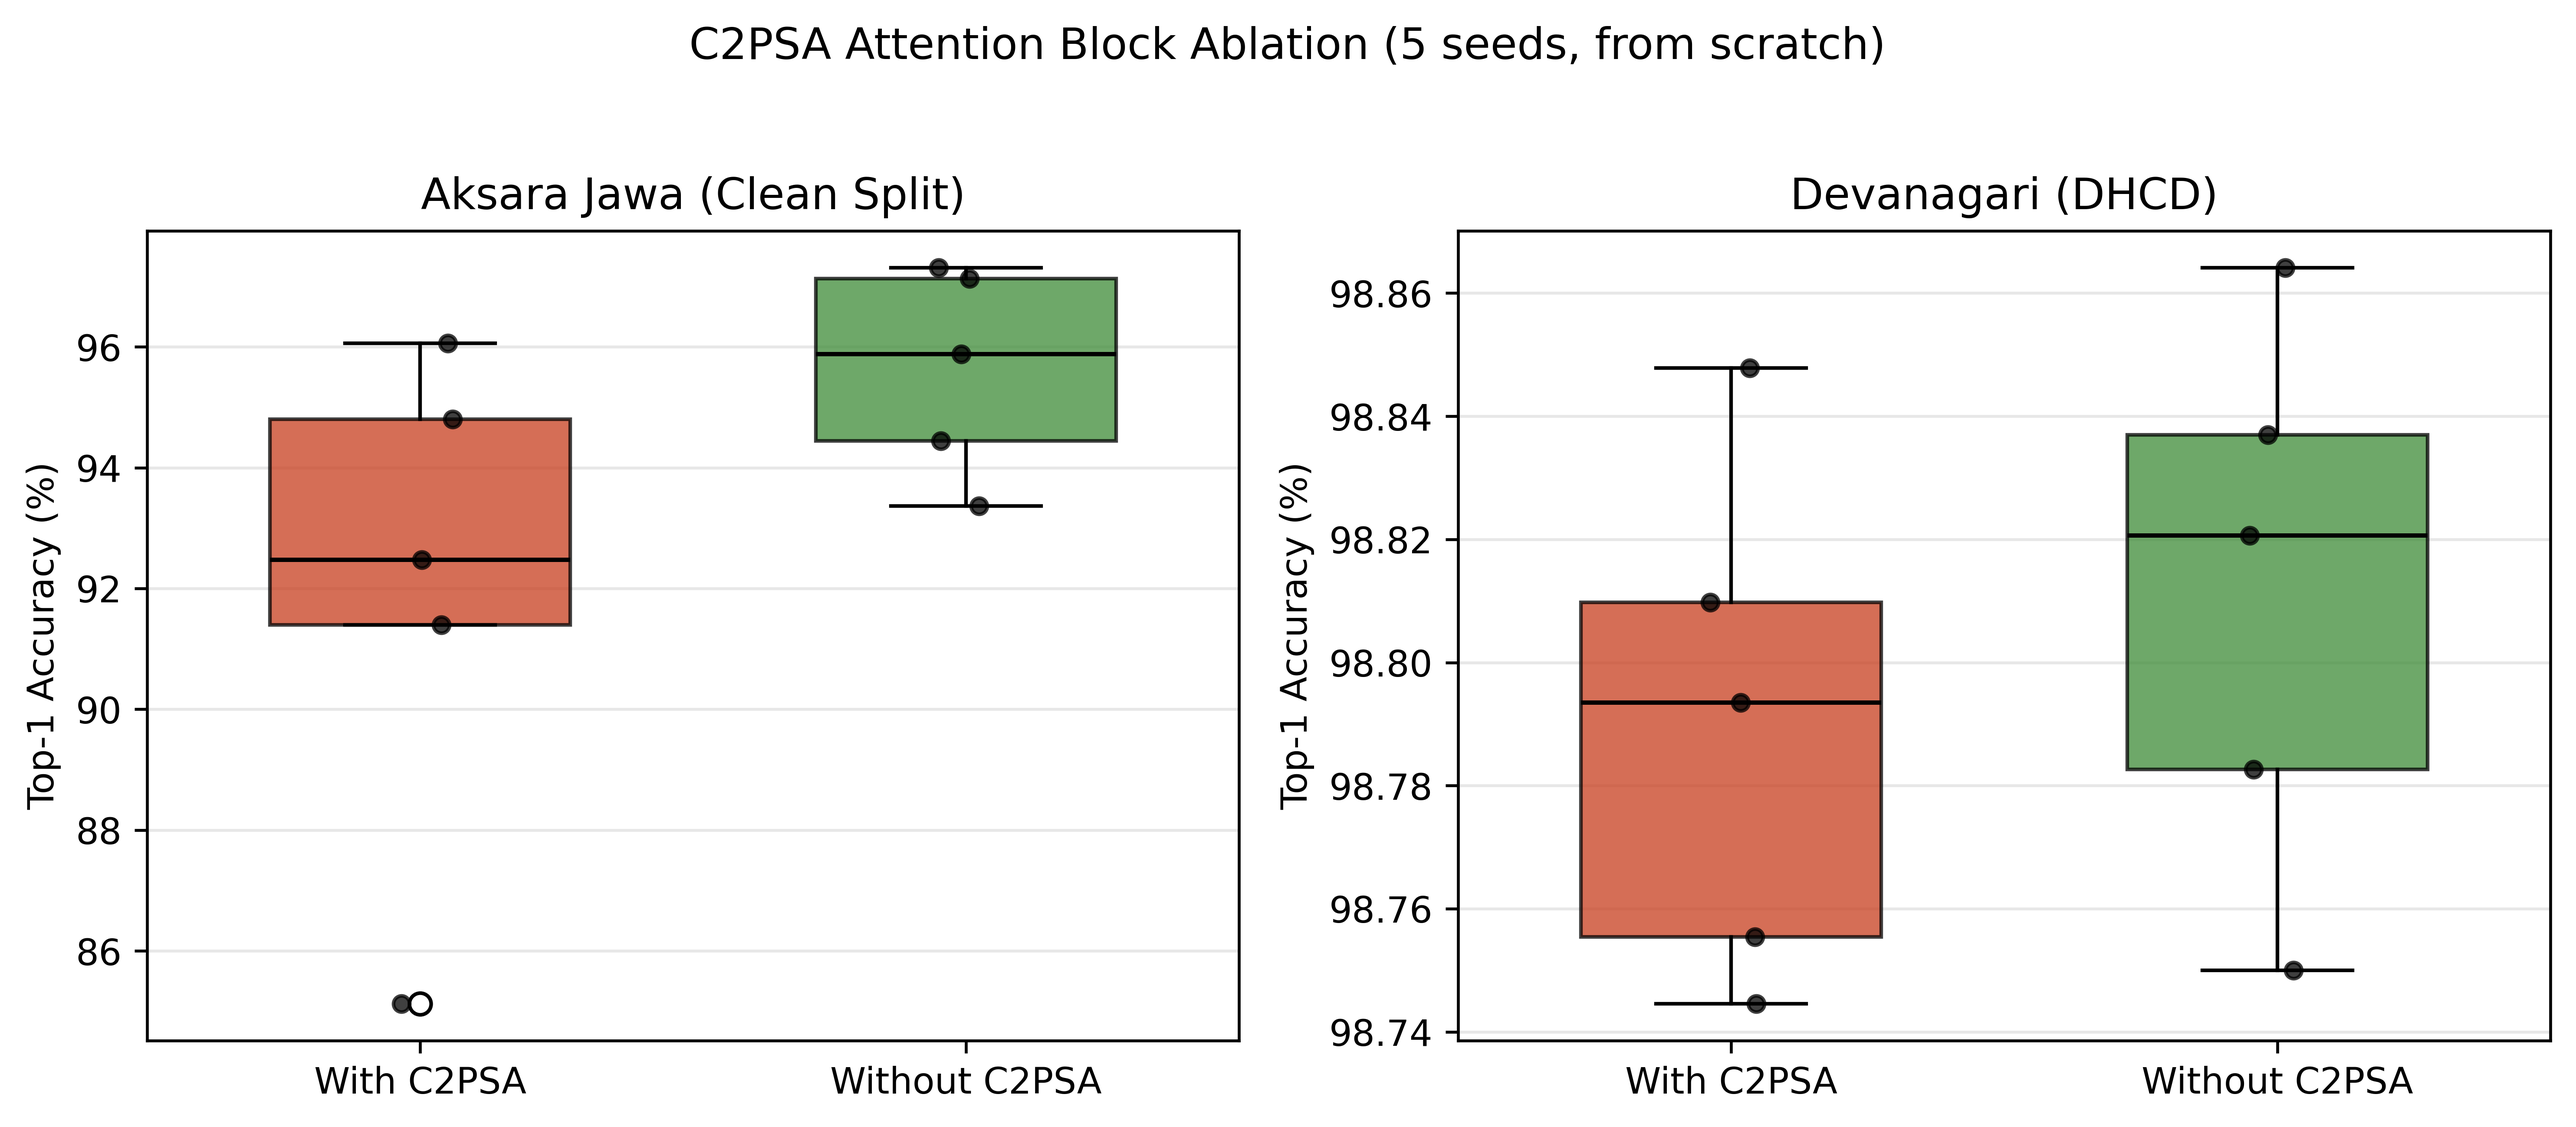
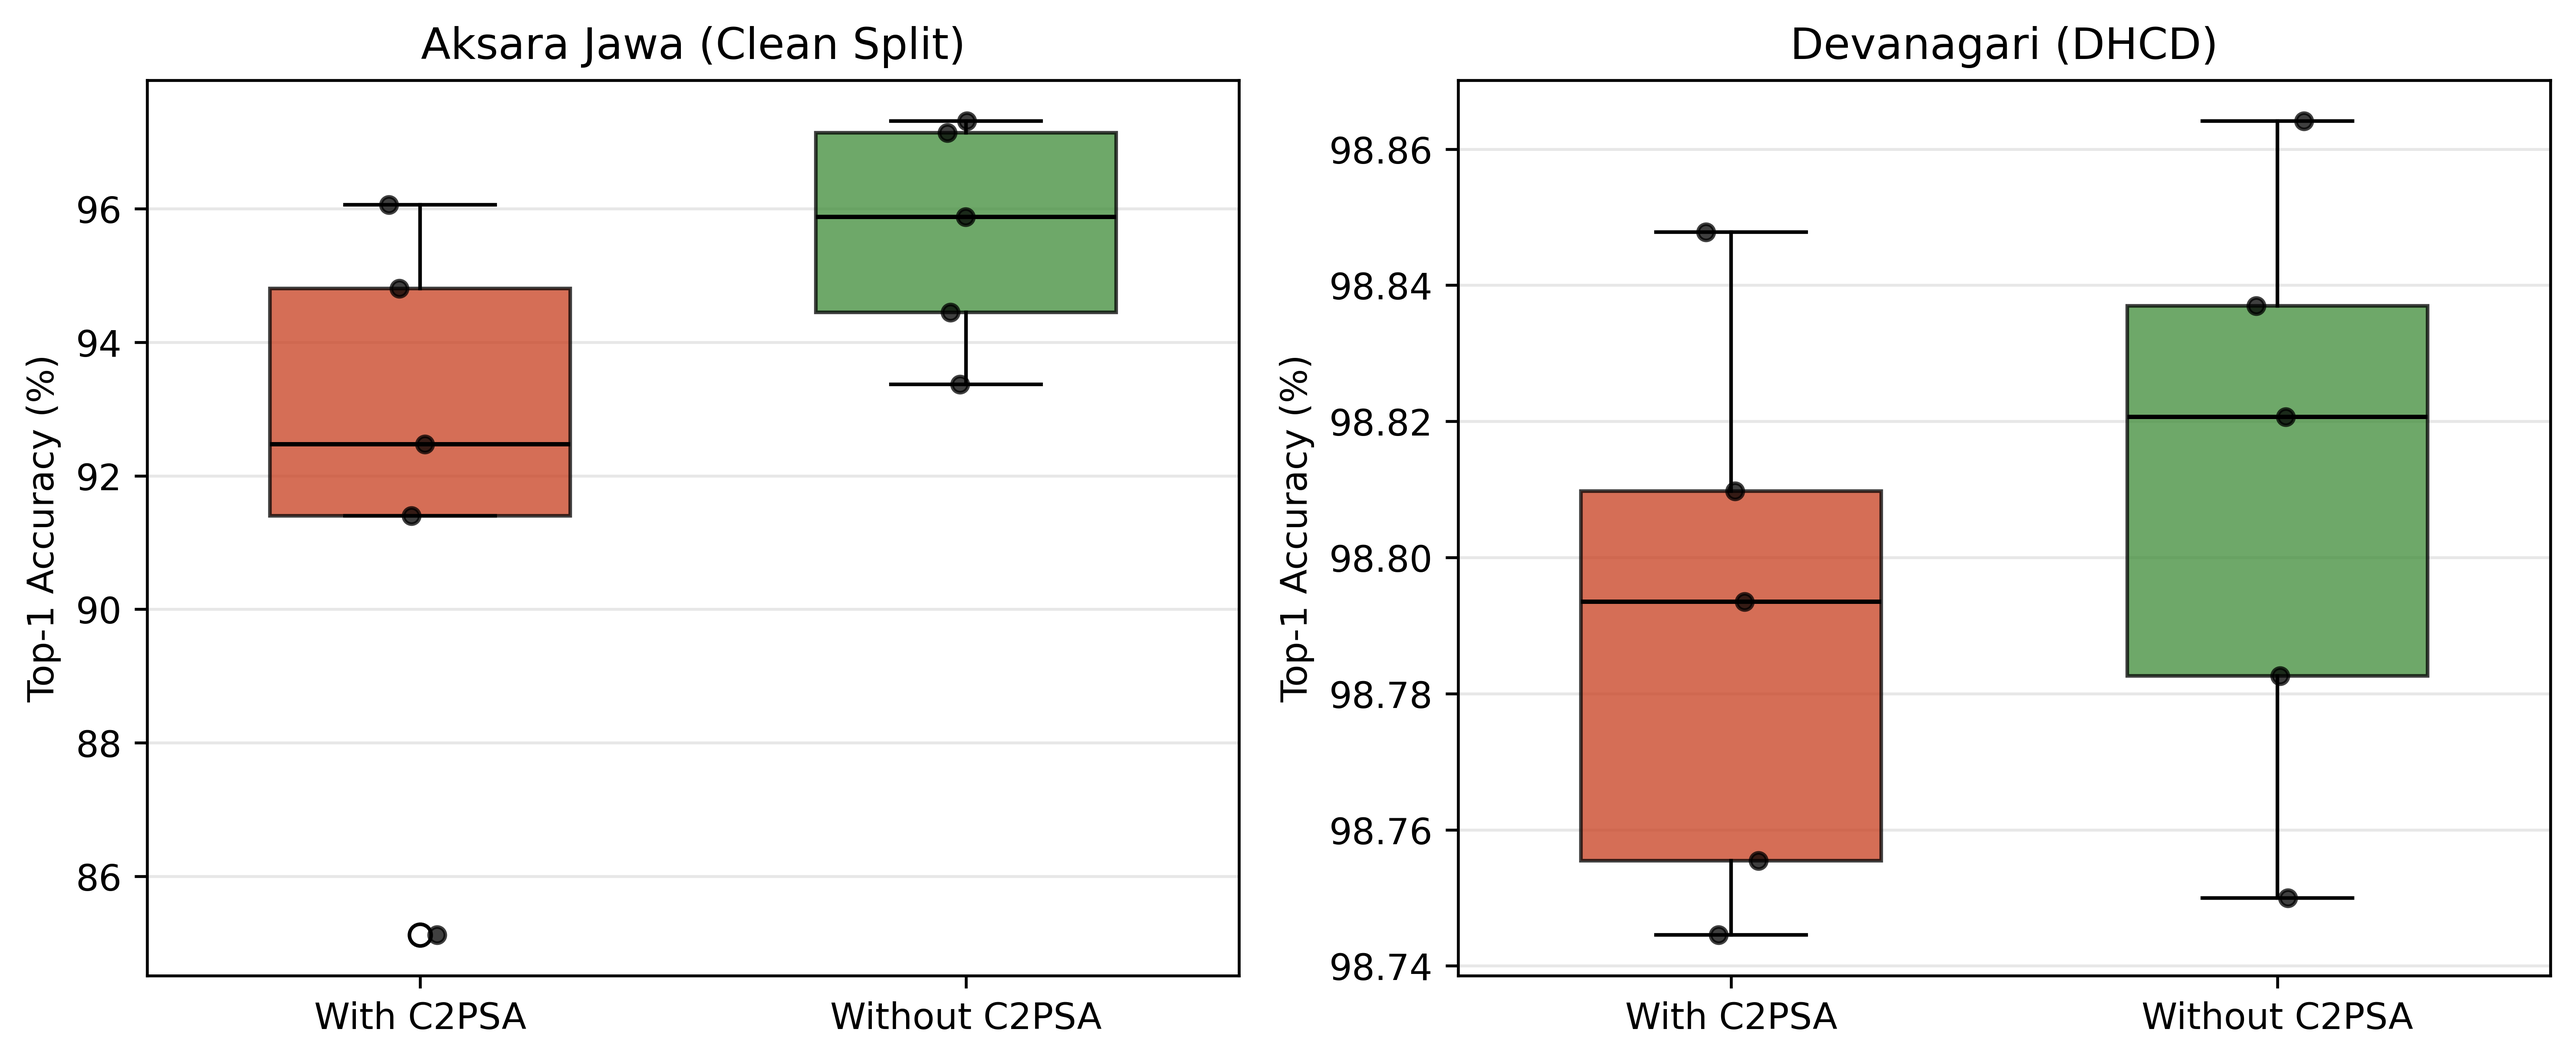
Correct rounded p-value in stats script docstring

diff --git a/scripts/generate_paper_figures.py b/scripts/generate_paper_figures.py
@@ -78,8 +78,6 @@ for ax, (title, df) in zip(axes, datasets):
         x = np.full_like(y, i + 1, dtype=float) + np.random.uniform(-0.08, 0.08, len(y))
         ax.scatter(x, y, color='black', s=18, zorder=10, alpha=0.7)
 
-fig.suptitle('YOLO Generation Comparison Across Datasets (5 seeds per configuration)',
-             fontsize=12, y=1.02)
 plt.tight_layout()
 plt.savefig(OUT / 'fig1_model_comparison.png', dpi=600, bbox_inches='tight')
 plt.savefig(OUT / 'fig1_model_comparison.pdf', bbox_inches='tight')
@@ -113,8 +111,6 @@ for ax, (title, df) in zip(axes, ablation_data):
         x = np.full_like(vals, i + 1, dtype=float) + np.random.uniform(-0.06, 0.06, len(vals))
         ax.scatter(x, vals, color='black', s=20, zorder=10, alpha=0.75)
 
-fig.suptitle('C2PSA Attention Block Ablation (5 seeds, from scratch)',
-             fontsize=12, y=1.02)
 plt.tight_layout()
 plt.savefig(OUT / 'fig2_ablation.png', dpi=600, bbox_inches='tight')
 plt.savefig(OUT / 'fig2_ablation.pdf', bbox_inches='tight')

diff --git a/scripts/compute_paper_stats.py b/scripts/compute_paper_stats.py
@@ -15,7 +15,7 @@ Two conventions matter and are applied uniformly here:
       same five seeds, so the design is within-subjects and the seed is the
       subject factor. A between-groups one-way ANOVA on the same data gives
       noticeably different values, for instance F = 4.449 and p = 0.036 on the
-      Aksara Jawa clean split against F = 3.736 and p = 0.072 for the
+      Aksara Jawa clean split against F = 3.736 and p = 0.071 for the
       repeated-measures test, so the distinction is not cosmetic.
 
   Cohen's d
